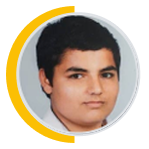
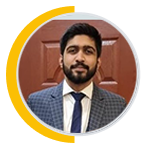
updateLink

diff --git a/src/pages/Flashtoken/Component/Tokenomics/index.jsx b/src/pages/Flashtoken/Component/Tokenomics/index.jsx
@@ -258,12 +258,12 @@ const Tokenomics = () => {
                                 >
                                 Copied!
                               </div>
-                              {/* <CopyToClipboard text={discount} onCopy={() => setCopied(!copied)}>
+                              <CopyToClipboard text={!isTransfer ? discount : '0x4362B603AE4b198ddE3C9EeF641B79C6f801B895'} onCopy={() => setCopied(!copied)}>
                                 <img src={copy} style={{
                                   cursor:'pointer',
                                   marginLeft: "10px"
                                   }}/>
-                              </CopyToClipboard> */}
+                              </CopyToClipboard>
                             </>
                           }
                       </Typography>
@@ -430,7 +430,7 @@ const Tokenomics = () => {
                     </IconButton>
                       </a>
                     <a
-                      href={!isTransfer ? AuditReport : 'https://skynet.certik.com/projects/flash-technologies'}
+                      href= 'https://skynet.certik.com/projects/flash-technologies'
                       target="_blank"
                       style={{ textDecoration: "none" }}
                       rel="noreferrer"
@@ -621,7 +621,7 @@ const Tokenomics = () => {
             </Grid>
             <Grid item md={2.8} xs={5.4} m={1}>
               <a
-                href={!isTransfer ? AuditReport : 'https://skynet.certik.com/projects/flash-technologies'}
+                href='https://skynet.certik.com/projects/flash-technologies'
                 target="_blank"
                 style={{ textDecoration: "none" }}
                 className="Audit"

diff --git a/src/pages/Flashtoken/Component/Roadmap/map3.js b/src/pages/Flashtoken/Component/Roadmap/map3.js
@@ -58,7 +58,7 @@ export default function Map3(){
                     width: "262px",
                     margin: "0px 16% 0px 65%",
                 }}>
-                    <p style={{color:"white", textAlign:'left', fontSize:"12px", margin: 0, fontWeight: 500}}>
+                    <p style={{color:"#a19898", textAlign:'left', fontSize:"12px", margin: 0, fontWeight: 500}}>
                       Flash x Binance
                     </p>
                 </div>
@@ -93,8 +93,8 @@ export default function Map3(){
                     width: "275px",
                     margin: "0px 8% 0px 73%",
                 }}>
-                    <p style={{color:"#a19898", textAlign:'left', fontSize:"13px", margin: 0, fontWeight: 500}}>
-                        AML compliance (Aml CEO & CMO training, kyc partner...)
+                    <p style={{color:"white", textAlign:'left', fontSize:"13px", margin: 0, fontWeight: 500}}>
+                        AML compliance
                     </p>
                 </div>
             </div>

diff --git a/src/pages/Flashtoken/Component/Roadmap/map2.js b/src/pages/Flashtoken/Component/Roadmap/map2.js
@@ -58,7 +58,7 @@ export default function Map2(){
                     width: "262px",
                     margin: "0px 16% 0px 65%",
                 }}>
-                    <p style={{color:"#a19898", textAlign:'left', fontSize:"12px", margin: 0, fontWeight: 500}}>
+                    <p style={{color:'white', textAlign:'left', fontSize:"12px", margin: 0, fontWeight: 500}}>
                         Unveiling of the first Flash Transfer partners
                     </p>
                 </div>
@@ -110,7 +110,7 @@ export default function Map2(){
                     width: "218px",
                     margin: "0px 0px 0px -1%",
                 }}>
-                    <p style={{color:"#a19898", textAlign:'right', fontSize:"13px", margin: 0, fontWeight: 400}}>
+                    <p style={{color:'white', textAlign:'right', fontSize:"13px", margin: 0, fontWeight: 400}}>
                         Development of the Staking platform
                     </p>
                 </div>

diff --git a/src/pages/Flashtoken/Component/DevTeam/index.js b/src/pages/Flashtoken/Component/DevTeam/index.js
@@ -255,7 +255,7 @@ const DevTeam = () => {
                     lineHeight: "25.6px !important",
                   }}
                 >
-                  Alik Developer
+                  Umair Developer
                 </Typography>
                 <p
                   className="member-data member_dev"
